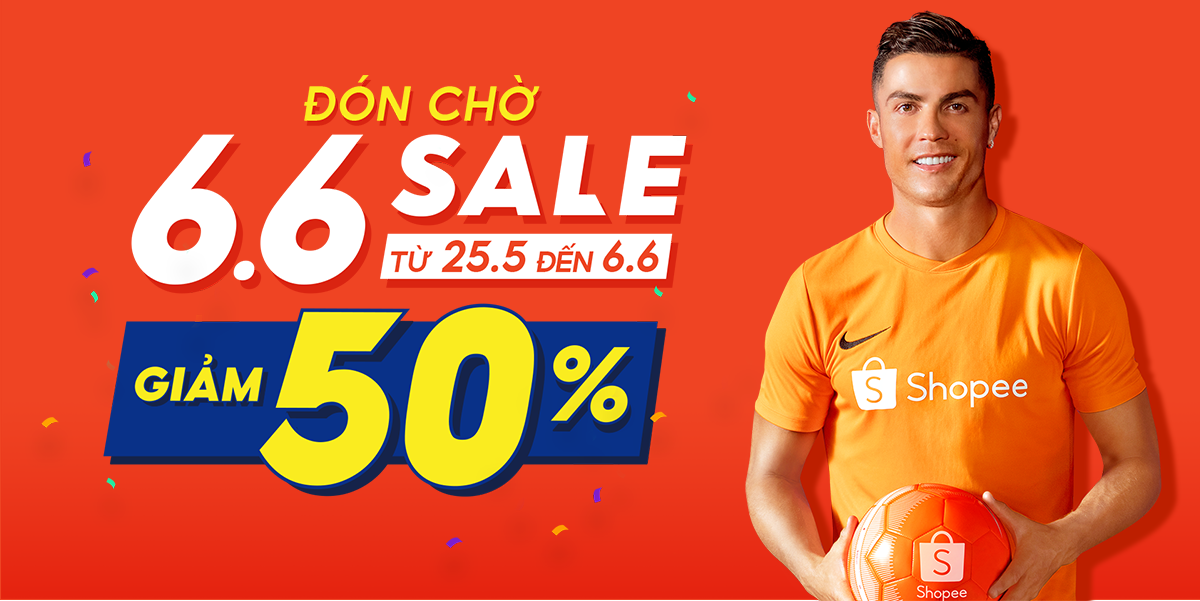
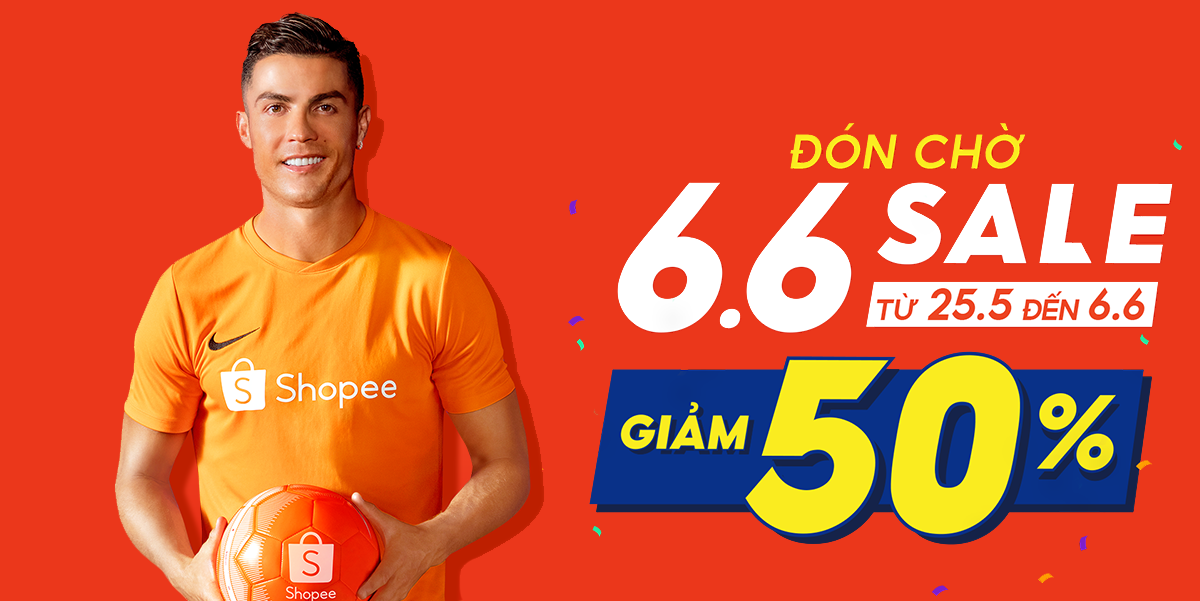
update new theme

diff --git a/index.html b/index.html
@@ -1304,7 +1304,7 @@
             <div class="site-header-wrapper">   
                 <div class="site-title-wrapper">
                     <a href="https://sansalemoingay.github.io/" class="custom-logo-link" rel="home"><img width="1080"
-                        height="395" src="img/66.png" class="custom-logo" alt="Mã Giảm Giá Shopee"
+                        height="395" src="img/banner.png" class="custom-logo" alt="Mã Giảm Giá Shopee"
                         sizes="(max-width: 1080px) 100vw, 1080px"></a>
                     <div class="site-title"><a href="https://sansalemoingay.github.io/" rel="home">Săn Sale Mỗi Ngày</a>
                     </div>
